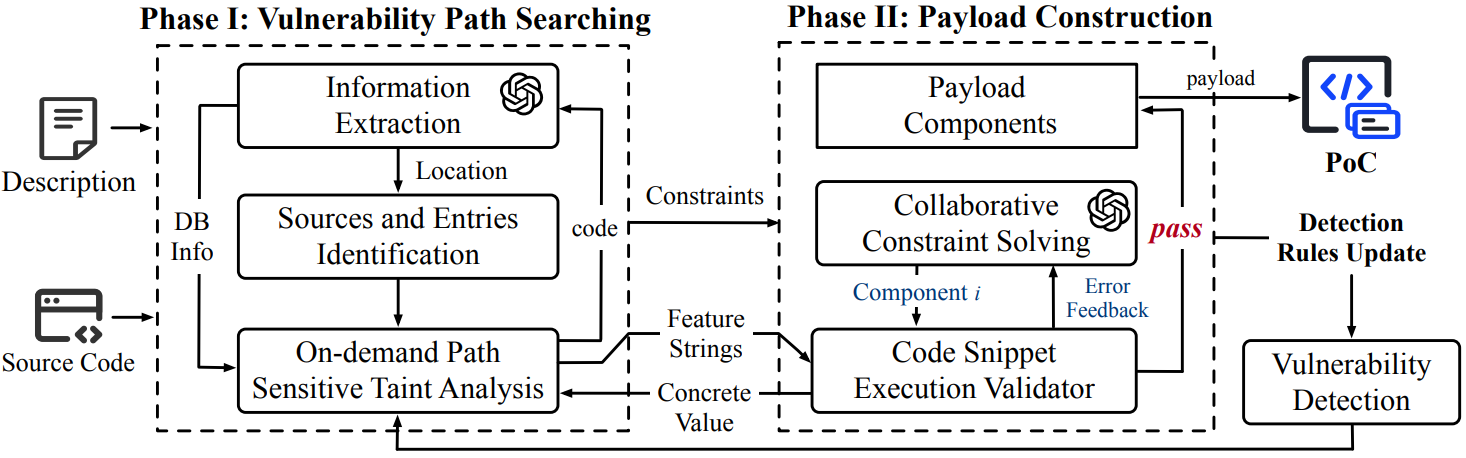
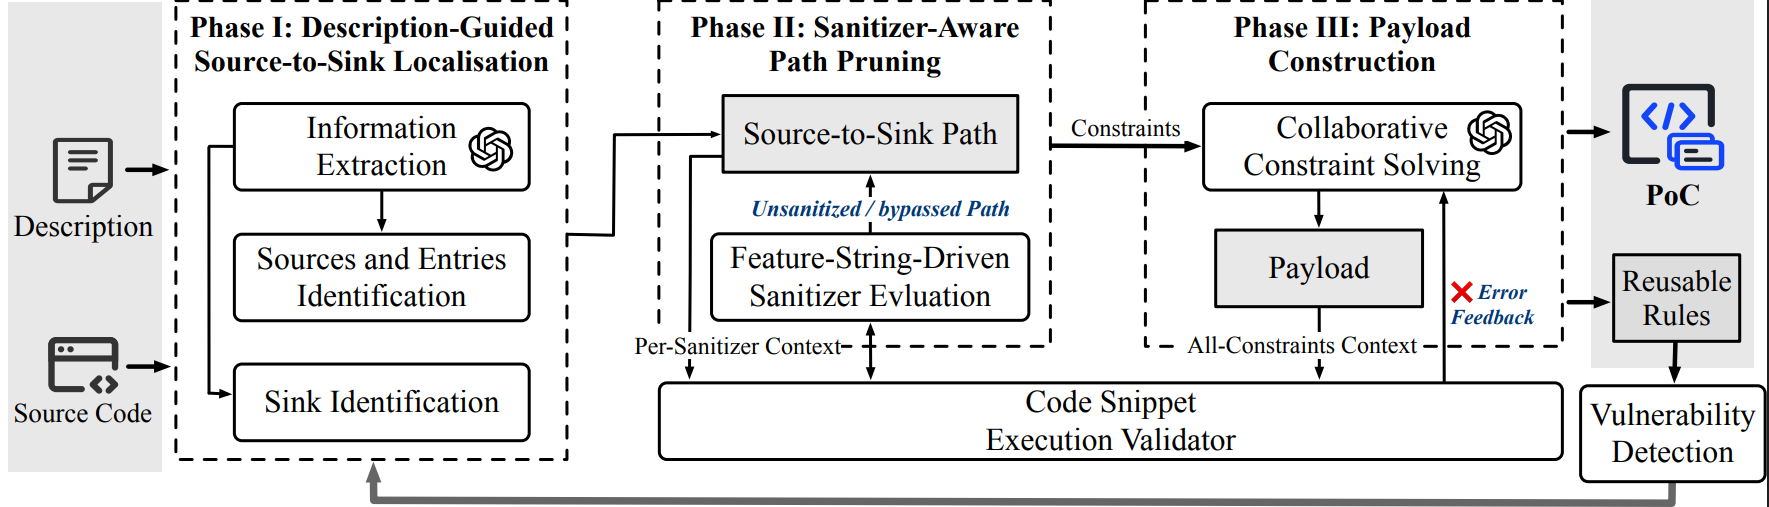
Update Picture of the workflow

Changed region(s): [[0.0, 0.0, 1.0, 1.0]]

diff --git a/README.md b/README.md
@@ -3,7 +3,7 @@
 ## 🎯 Overview
 
 **PoCForge** is a proof-of-concept (PoC) generation tool that combines **Large Language Models (LLMs)** with **on-demand path-sensitive taint analysis** to automatically generate exploits for known vulnerabilities. 
-
+![workflow](/images/workflow.png)
 ---
 
 ## ⚡ How It Works
